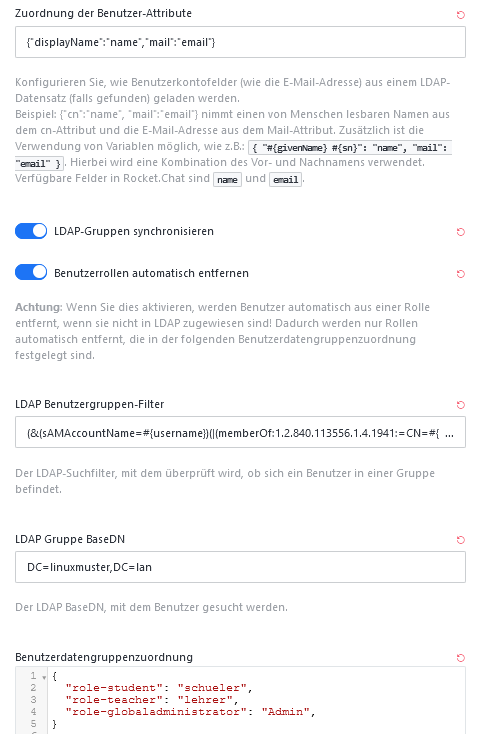
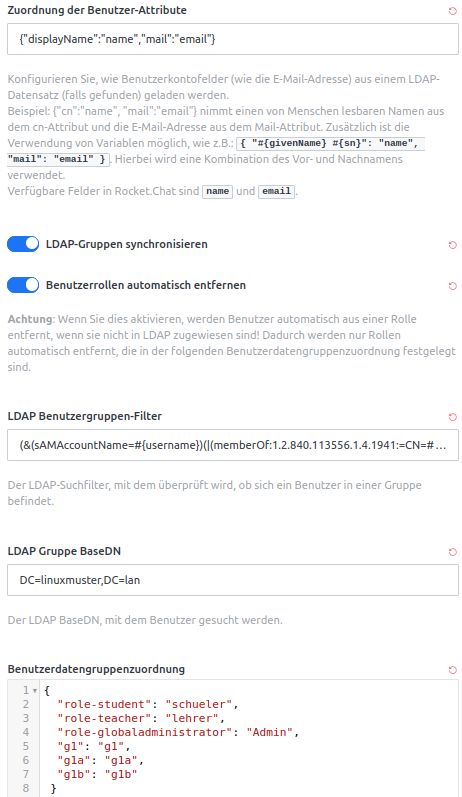
changed pics with false settings according to https://ask.linuxmuster.net/t/rocket-chat-anbindung-lm7-mit-extra-rolle-fuer-lehrer/6835/48

diff --git a/source/external-services/rocketchat/index.rst b/source/external-services/rocketchat/index.rst
@@ -174,10 +174,6 @@ Die nachstehende Abb. verdeutlicht diese Einstellungen:
    :alt: LDAP: Sync Settings
    :align: center
 
-.. attention::
-
-   In der Abb. wurden zu Beginn zwei geschweifte Klammern gesetzt. Dies würde zu Fehlern im Sync führen. Also unbedingt - wie vorher im Code-Block angegeben - die Zuordnung eintragen.
-
 Auch Klassen und Projekte können hier verwendet werden:
 
 .. code::
@@ -206,6 +202,9 @@ Die ``User data group map`` muss im JSON-Format angegeben werden, bei Syntaxfehl
 
    {
     "role-globaladministrator": "admintalk",
+    "role-teacher": "Lehrertalk",
+    "5a": "Talk-5a",
+    "5b": "Talk-5b",
     "role-student": [
       "info",
       "news"'
@@ -213,10 +212,10 @@ Die ``User data group map`` muss im JSON-Format angegeben werden, bei Syntaxfehl
   }
 
 Hierdurch werden alle Schüler den Channels „info“ und „news“ hinzugefügt.
-Die ``LDAP Group Channel Map`` muss im JSON-Format angegeben werden, bei Syntaxfehlern funktioniert der Sync nicht mehr. Es sind einfache Anführungszeichen zu verwenden.
+Die ``LDAP Group Channel Map`` muss im JSON-Format angegeben werden, bei Syntaxfehlern funktioniert der Sync nicht mehr.
 
 .. hint::
-   Es ist möglich, Channels so einzustellen, dass sie nur lesbar sind. Man kann so einen Channel erstellen, in dem nur Lehrer schreiben können, indem man der entsprechenden Rocket.Chat Rolle, die man role-teacher zuordnet, in den Berechtigungseinstellungen von Rocket.Chat die Berechtigung erteilt, in schreibgeschützte Channels zu schreiben. Man kann so auch einfach Channels für bestimmte Stufen erstellen, indem man alle Klassen der Stufe diesem Channel zuordnet werden.
+   Es ist möglich, Channels so einzustellen, dass sie nur lesbar sind. Man kann einen Channel erstellen, in dem nur Lehrer schreiben können, indem man der entsprechenden Rocket.Chat Rolle, die man role-teacher zuordnet, in den Berechtigungseinstellungen von Rocket.Chat die Berechtigung erteilt, in schreibgeschützte Channels zu schreiben. Man kann so auch einfach Channels für bestimmte Stufen erstellen, indem man alle Klassen der Stufe diesem Channel zuordnet werden.
 
 15. Auto remove user from channels: JA
 
